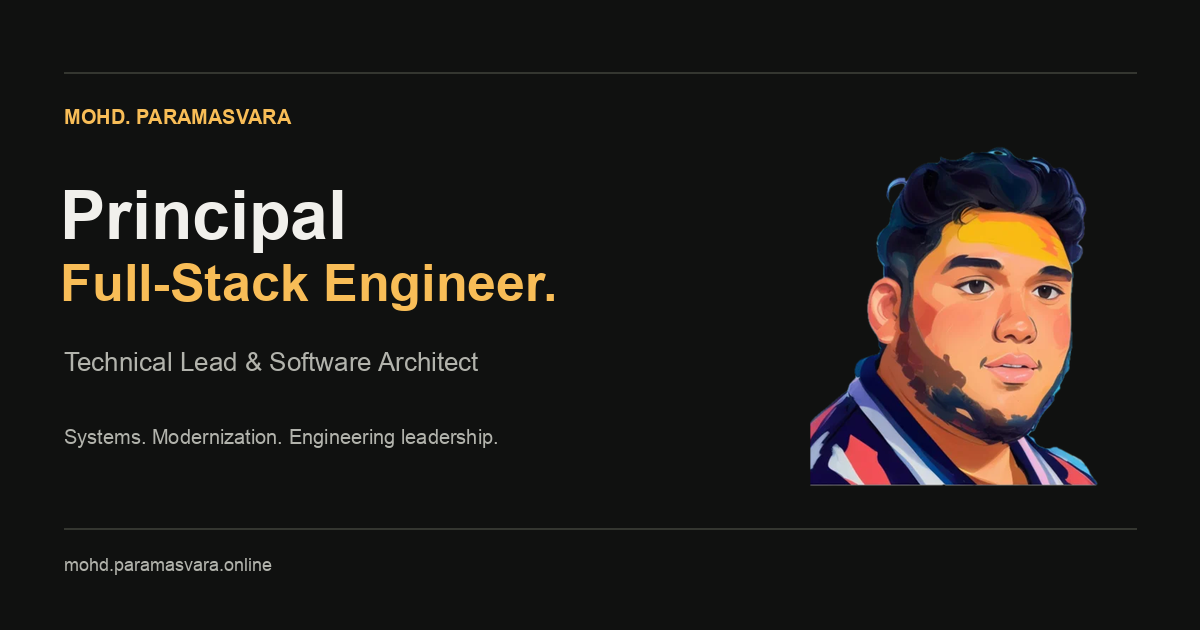
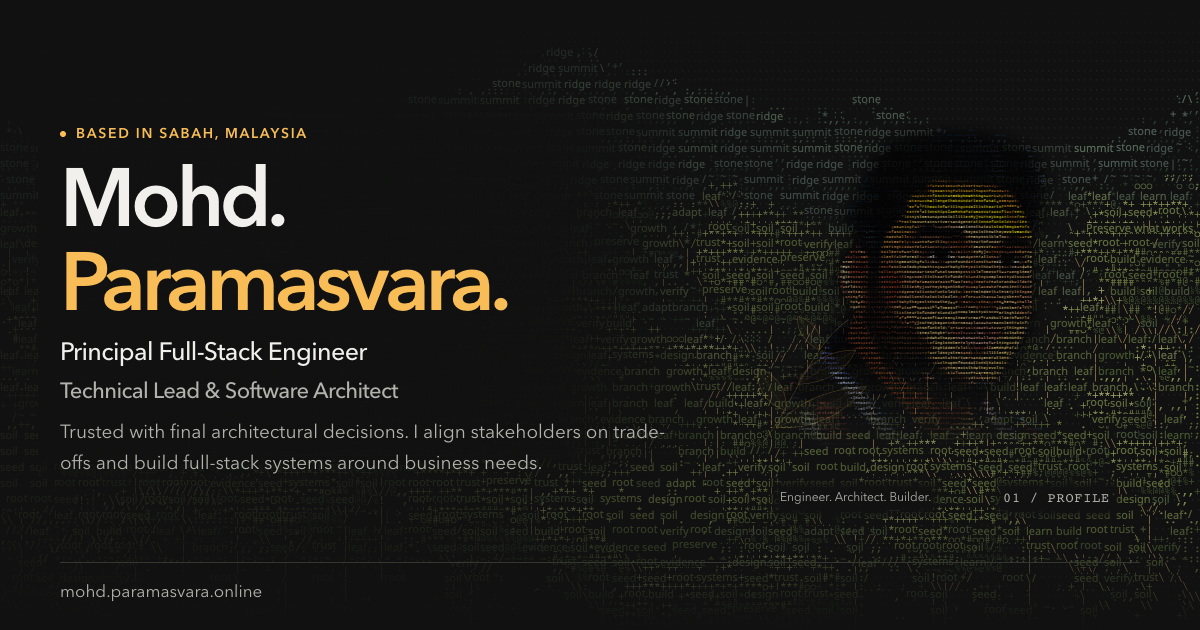
feat(social): generate homepage share preview from portfolio hero
Add a reproducible 1200×630 capture tool, refresh the share image and version its Open Graph and Twitter URLs. Verify matching metadata and image dimensions in production artifacts.

diff --git a/index.html b/index.html
@@ -28,7 +28,7 @@
     <meta property="og:site_name" content="Mohd. Paramasvara" />
     <meta
       property="og:image"
-      content="https://mohd.paramasvara.online/og-image.png"
+      content="https://mohd.paramasvara.online/og-image.png?v=hero-20261025"
     />
     <meta property="og:image:width" content="1200" />
     <meta property="og:image:height" content="630" />
@@ -47,7 +47,7 @@
     />
     <meta
       name="twitter:image"
-      content="https://mohd.paramasvara.online/og-image.png"
+      content="https://mohd.paramasvara.online/og-image.png?v=hero-20261025"
     />
     <meta
       name="twitter:image:alt"
